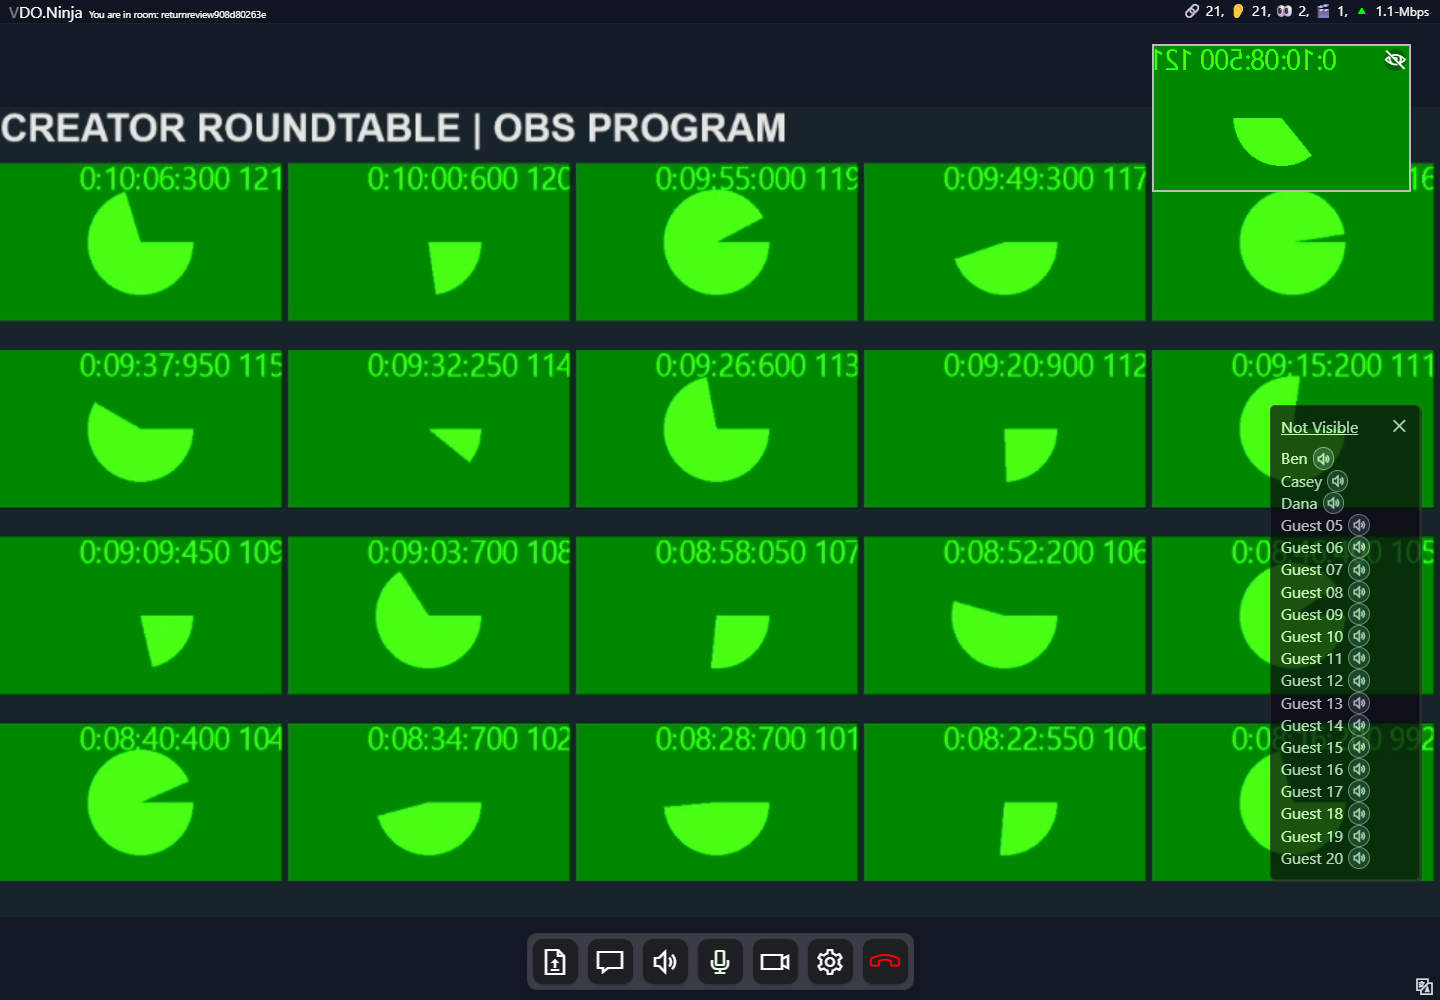
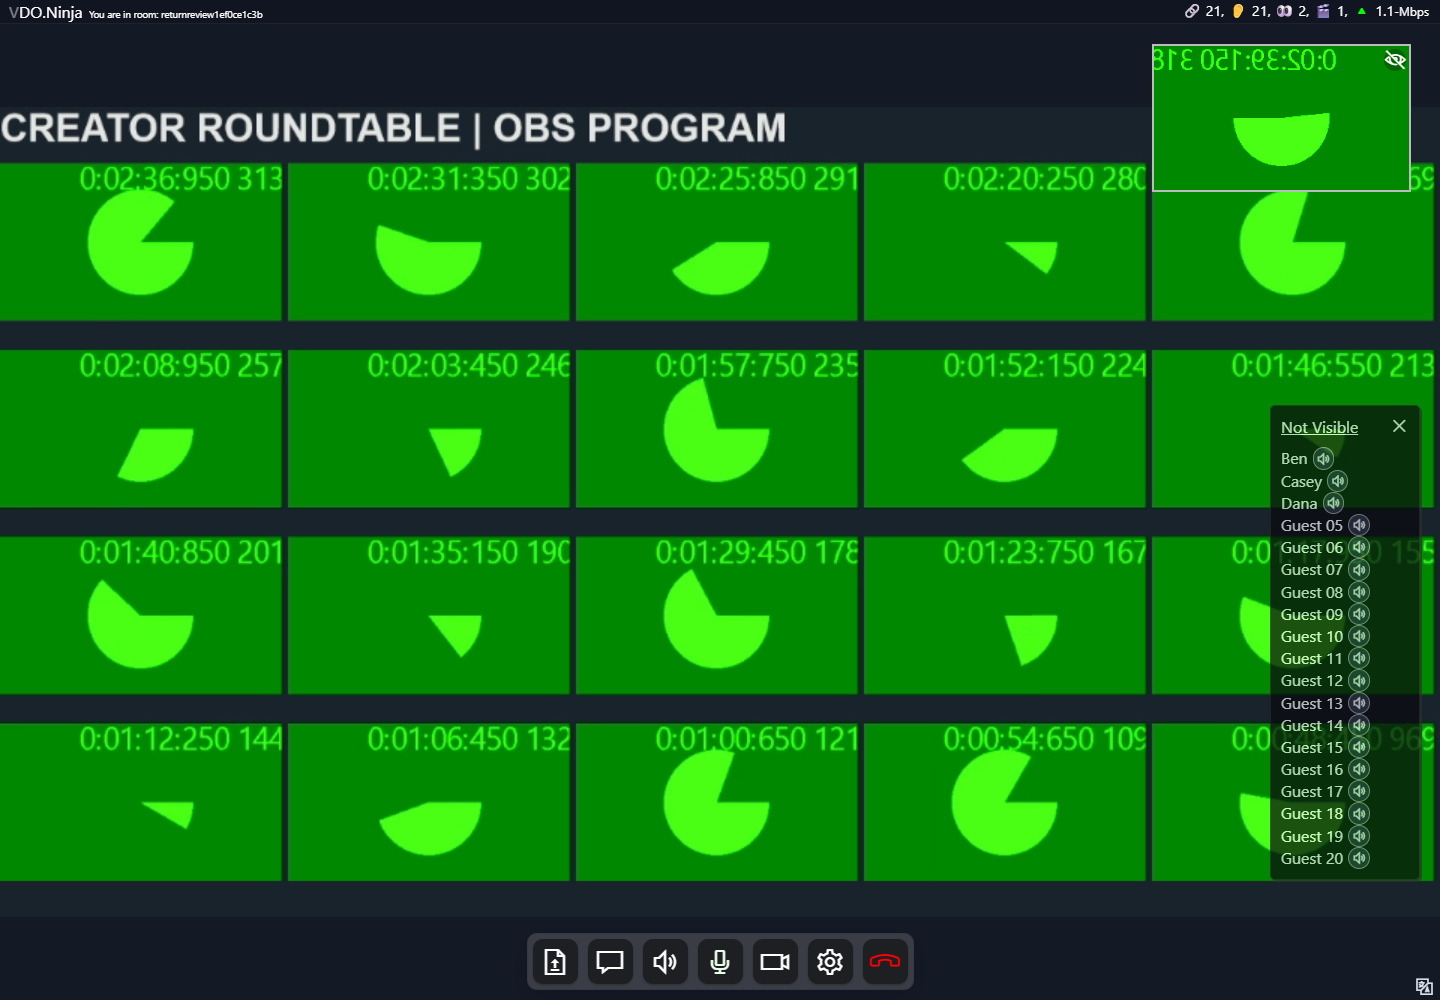
Publish final room guides and packaged 20-guest validation

diff --git a/docs/guest-return.html b/docs/guest-return.html
@@ -2,7 +2,7 @@
 <html lang="en"><head><meta charset="utf-8"><meta name="viewport" content="width=device-width,initial-scale=1"><meta name="description" content="Give every VDO.Ninja room guest the OBS program while your public stream continues. A short visual setup guide."><title>OBS program for your room · VDO.Ninja</title><link rel="stylesheet" href="guest-return.css"></head>
 <body><header><nav class="wrap" aria-label="Guide navigation"><a href="index.html"><strong>VDO.Ninja · OBS</strong></a><div class="tabs"><a aria-current="page" href="guest-return.html">Host setup</a><a href="guest-return-join.html">Guest guide</a><a href="guest-return-rehearsal.html">Pre-show check</a></div></nav></header>
 <main class="wrap"><section class="hero"><div class="eyebrow">Group room · Host guide</div><h1>Send your OBS program<br>to the room.</h1><p class="intro">Guests see the show and hear clips, while talking to each other directly. Your public stream runs alongside it.</p></section>
-<p class="status">Preview guide · Requires the upcoming Guest Return room controls. Screenshots use disposable test rooms.</p>
+<p class="status">Requires <a href="https://github.com/steveseguin/ninja-obs-plugin/releases/tag/v1.1.78">plugin v1.1.78 or newer</a>. Screenshots use disposable test rooms.</p>
 <div class="flow" role="img" aria-label="OBS sends the program to Guest Return, which sends it to each room guest"><div><b>OBS program</b><span>Your scenes + clips</span></div><div class="arrow" aria-hidden="true">→</div><div><b>Guest Return</b><span>Separate output · track 2</span></div><div class="arrow" aria-hidden="true">→</div><div><b>Room guests</b><span>Same show · live conversation</span></div></div>
 <section class="step" id="room"><h2><span class="number">1</span>Open your room</h2><p>Create or open your VDO.Ninja director room. Keep your usual YouTube or other streaming destination in OBS.</p><p>Add each guest’s individual video to OBS. For a Browser Source, enable <strong>Control audio via OBS</strong> so you can route its sound.</p><details><summary>Where do I get the guest video?</summary><p>Use the individual guest’s OBS/view link from the director room. Make one source per guest. A return viewer link is for watching the finished program, so do not use it as a guest camera source.</p><figure><img src="assets/guest-return/04-guest-source.png" alt="OBS Browser Source with a guest view link and Control audio via OBS enabled" loading="lazy"><figcaption>Browser Source settings from the test room.</figcaption></figure></details></section>
 <section class="step" id="audio"><h2><span class="number">2</span>Give the return its own audio track</h2><p>Open OBS <strong>Advanced Audio Properties</strong>. Use track <strong>1</strong> for the public stream and track <strong>2</strong> for Guest Return.</p>
@@ -10,7 +10,7 @@
 <div class="callout"><strong>Exclude ALL guest mics from track 2.</strong><p>Guests already hear each other through the room. Sending them again in the return creates delayed voices or echo. If your host mic is also active in the director’s browser, leave that mic off track 2 too.</p></div>
 <figure><a href="assets/guest-return/05-audio-routing.png"><img src="assets/guest-return/05-audio-routing.png" alt="Alice, Ben and Casey enabled on track 1 and disabled on track 2; host and clip enabled on both" loading="lazy"></a><figcaption>Three guest mics excluded from the shared return. Click any screenshot to inspect it.</figcaption></figure>
 <p class="note">In Settings → Output, select audio track 1 for your normal stream. Avoid also capturing guest sound through Desktop Audio or audio monitoring.</p></section>
-<section class="step" id="start"><div class="split wide"><div><h2><span class="number">3</span>Start Guest Return</h2><p>Open <strong>Tools → VDO.Ninja Studio → Guest Return</strong>.</p><ul><li>Enter the director room’s <strong>Room ID</strong> and matching <strong>Password</strong>.</li><li>Keep the generated <strong>Stream ID</strong>, or choose a unique return ID.</li><li>Set <strong>Return audio track: 2</strong>.</li><li>Set <strong>Max Viewers</strong> to cover guests plus director previews and monitors.</li><li>Click <strong>Start return</strong>.</li></ul><p class="note">For 20 guests, start at 1500 kbps, Up to 540p, and 15 fps (30 / 2). Allow 22 viewer slots for guests and previews. The return uses a separate H.264 encoder. Leave advanced connection settings at their defaults unless your network needs them.</p><details><summary>Reduce the return’s load</summary><p>Choose <strong>Up to 720p</strong> or <strong>Up to 540p</strong> under Return size. Return frame rate divides the OBS rate: 60 / 2 gives 30 fps; 30 / 2 gives 15 fps. These controls affect only the return.</p><p>Lower <strong>Video bitrate</strong> separately to reduce upload. Smaller dimensions alone do not lower a fixed bitrate.</p></details></div><figure class="small"><a href="assets/guest-return/07-return-settings.png"><img src="assets/guest-return/07-return-settings.png" alt="Guest Return settings showing room, return ID, audio track 2, bitrate and room invite button" loading="lazy"></a><figcaption>Example settings. Use your own room, password and return ID.</figcaption></figure></div></section>
+<section class="step" id="start"><div class="split wide"><div><h2><span class="number">3</span>Start Guest Return</h2><p>Open <strong>Tools → VDO.Ninja Studio → Guest Return</strong>.</p><ul><li>Enter the director room’s <strong>Room ID</strong> and matching <strong>Password</strong>.</li><li>Keep the generated <strong>Stream ID</strong>, or choose a unique return ID.</li><li>Set <strong>Return audio track: 2</strong>.</li><li>Set <strong>Max Viewers</strong> to cover guests plus director previews and monitors.</li><li>Click <strong>Start return</strong>.</li></ul><p class="note">For 20 guests, start at 1500 kbps, Up to 540p, and 15 fps (OBS 30 / 2 or 60 / 4). Allow 22 viewer slots for guests and previews. The return uses a separate H.264 encoder. Leave advanced connection settings at their defaults unless your network needs them.</p><details><summary>Reduce the return’s load</summary><p>Choose <strong>Up to 720p</strong> or <strong>Up to 540p</strong> under Return size. Return frame rate divides the OBS rate: 60 / 2 gives 30 fps; 30 / 2 gives 15 fps. These controls affect only the return.</p><p>Lower <strong>Video bitrate</strong> separately to reduce upload. Smaller dimensions alone do not lower a fixed bitrate.</p></details></div><figure class="small"><a href="assets/guest-return/07-return-settings.png"><img src="assets/guest-return/07-return-settings.png" alt="Guest Return settings showing room, return ID, audio track 2, bitrate and room invite button" loading="lazy"></a><figcaption>Example settings. Use your own room, password and return ID.</figcaption></figure></div></section>
 <section class="step" id="invite"><h2><span class="number">4</span>Send the room guest invitation</h2><p>Click <strong>Copy room guest invite</strong> and send that link to every guest. Ask existing guests to rejoin with it.</p><div class="callout"><p><strong>Use the room invite for participants.</strong> It joins the conversation and selects the OBS return. <strong>Copy return viewer link</strong> is for a watch-only monitor.</p></div><p>Guests choose <strong>Join Room with Camera</strong>, allow their camera and mic, then click <strong>START</strong>.</p><div class="actions"><a class="button" href="guest-return-join.html">Open the guest guide →</a></div><details><summary>What is in the link?</summary><p>The plugin adds <code>broadcast=YOUR_RETURN_ID</code> to the room invitation. Guests receive that program video and still hear the other guests directly. The room password is included; share the link privately.</p></details></section>
 <section class="step" id="check"><h2><span class="number">5</span>Check the room, then go live</h2><p>Have guests confirm that the program moves, clips are audible, and nobody hears their own delayed voice. Check the connected viewer count. Start your normal OBS stream when ready.</p><figure><a href="assets/guest-return/14-alice-program.png"><img src="assets/guest-return/14-alice-program.png" alt="A guest sees the composed OBS program with 20 test cameras and a small self-preview" loading="lazy"></a><figcaption>Verified 20-guest room. Green patterns are synthetic test cameras.</figcaption></figure><p class="note">Stopping Guest Return leaves the public stream running. Start the return again after reopening OBS or changing profiles.</p><div class="actions"><a class="button" href="guest-return-rehearsal.html">Run the pre-show check →</a></div></section>
 <section class="step calculator"><h2>Allow upload for every return viewer</h2><p class="mini">Each guest and director preview receives a separate copy. This is independent of your public audience size.</p><div class="fields"><label>Return viewers <input id="viewers" type="number" min="1" max="50" value="22"></label><label>Video kbps <input id="bitrate" type="number" min="100" max="50000" step="100" value="1500"></label></div><p class="estimate" id="estimate" aria-live="polite"></p><p class="note">Planning estimate includes 200 kbps audio per viewer and 25% headroom. Add your public stream and other uploads. This is not a measured connection guarantee.</p></section>

diff --git a/scripts/guest-return-room-ui.py b/scripts/guest-return-room-ui.py
@@ -25,10 +25,11 @@ def find(identifier):
 def native_click(control):
     import win32gui
     window = control
-    while window.element_info.control_type != 'Window' or not window.handle:
+    while not window.handle:
         window = window.parent()
     point = control.rectangle().mid_point()
     x, y = win32gui.ScreenToClient(window.handle, (point.x, point.y))
+    win32gui.SendMessage(window.handle, 0x0200, 0, (y << 16) | x)
     win32gui.SendMessage(window.handle, 0x0201, 1, (y << 16) | x)
     win32gui.SendMessage(window.handle, 0x0202, 0, (y << 16) | x)
 
@@ -42,7 +43,12 @@ if action == 'dump':
 elif action == 'open':
     main.set_focus()
     main.maximize()
-    main.menu_select('Tools->VDO.Ninja Studio')
+    try:
+        visible = find('VDONinjaStudioDock').is_visible()
+    except RuntimeError:
+        visible = False
+    if not visible:
+        main.menu_select('Tools->VDO.Ninja Studio')
 elif action == 'tab':
     for window in app.windows():
         matches = [c for c in window.descendants(control_type='TabItem') if c.window_text() == 'Guest Return']
@@ -82,14 +88,16 @@ elif action == 'combo':
     import win32gui
     dock = find('VDONinjaStudioDock')
     win32gui.MoveWindow(dock.handle, 100, 40, 600, 1100, True)
+    win32gui.ShowWindow(dock.handle, 5)
+    time.sleep(.3)
     control = find(sys.argv[3])
     assert control.is_enabled()
-    control.click_input()
+    control.expand()
     time.sleep(.3)
     choices = [c for w in app.windows() for c in w.descendants(control_type='ListItem')
                if c.window_text() == sys.argv[4] and c.is_visible()]
     assert choices, 'Combo option not visible'
-    choices[0].click_input()
+    native_click(choices[0])
     time.sleep(.2)
     assert find(sys.argv[3]).selected_text() == sys.argv[4], 'Combo selection did not apply'
 elif action == 'resize':

diff --git a/scripts/guest-return-room-setup.py b/scripts/guest-return-room-setup.py
@@ -30,7 +30,8 @@ def copy_file(source, destination):
     return destination
 
 shutil.copytree(template, review, copy_function=copy_file)
-plugin = root / 'build-plugin-release-validation/RelWithDebInfo/obs-vdoninja.dll'
+plugin = (Path(sys.argv[2]).resolve() if len(sys.argv) > 2 else
+          root / 'build-plugin-release-validation/RelWithDebInfo/obs-vdoninja.dll')
 target = review / 'obs-plugins/64bit/obs-vdoninja.dll'
 assert target.resolve().is_relative_to(output) and target != plugin
 target.unlink()

diff --git a/docs/guest-return-room-validation.md b/docs/guest-return-room-validation.md
@@ -8,7 +8,8 @@ selected OBS return track, and retain direct guest-to-guest audio. No VDO.Ninja
 code changes are required for this workflow.
 
 Implemented controls: room guest invitation, viewer capacity (1–50, default 10),
-connected/maximum viewer status, group audio guidance, and independent signaling,
+connected/maximum viewer status, independent return size/FPS, group audio guidance,
+and independent signaling,
 salt, custom STUN/TURN, and Force TURN settings. Links preserve signaling/salt and
 omit relay credentials. Settings remain locked during a session and saved per
 OBS profile. Force TURN without a TURN entry is rejected before allocation.
@@ -140,8 +141,10 @@ The bundled backend still does not support TCP/TLS-only TURN networks.
 Resolution, FPS divisor and capacity survived OBS restart; return remained
 stopped until manually started. Two Qt automation issues were caught by media
 assertions and screenshots: changing combo values via keyboard/native messages
-had no effect, and an off-screen dock defeated physical clicks. The harness now
-moves its owned dock on screen, clicks the option and verifies the selected text.
+had no effect, and an off-screen dock defeated physical clicks. The harness moves its owned dock on screen and verifies the selected text.
+A later clean-build smoke also caught a Qt popup belonging to its own native
+window: the driver now opens the popup through accessibility and sends the mouse
+click to that popup handle, rather than to the dock behind it.
 The failed 720p assertions are retained locally, not counted as reduced-size passes.
 
 Six-channel native reception passed distinct-tone 5.1 recording and reconnect.
@@ -160,7 +163,7 @@ native permission dialogs. Crops never reconstruct UI.
 
 The three HTML guides passed 1280px desktop and 390px mobile layout, local links,
 image loading, calculator and checklist checks. Full-page and section captures,
-plus printable PDFs, are in `artifacts/guest-return-guide-final-20261031/`.
+plus printable PDFs, are in `artifacts/guest-return-guides-published-1.1.78/`.
 
 ## Delivery checklist and remaining work
 
@@ -171,7 +174,8 @@ plus printable PDFs, are in `artifacts/guest-return-guide-final-20261031/`.
 - [x] Independent return size/FPS, final UI captures, and restart persistence.
 - [x] Six-channel 5.1 reception and stereo downmix with reconnect.
 - [x] Host, guest and pre-show visual guides; desktop/mobile review.
-- [ ] Release packaging/CI and final packaged-binary smoke test.
+- [x] Release packaging/CI, ZIP installation, checksum verification and final
+  packaged-binary 20-guest room test.
 - [ ] Actual rehearsal with Matt's participants and their Internet connections.
   Target up to 20 people. This needs participant/device access; automated local
   guests do not establish their network quality or acoustic echo behavior.
@@ -179,7 +183,9 @@ plus printable PDFs, are in `artifacts/guest-return-guide-final-20261031/`.
   are useful gates but do not replace a room rehearsal on those hosts.
 - [ ] TCP/TLS-only TURN support: requires a suitable ICE backend and separate
   restricted-network tests. Current UDP relay checks do not establish this.
-- [ ] Hosted WHEP publication: production broker returned HTTP 504. Preserve the
+- [ ] Hosted WHEP publication: production broker returned HTTP 504. A disposable WebSocket/HTTP protocol
+  probe confirmed its POST contains no `sessionId`, which the pending native
+  implementation requires. Preserve the
   pending implementation, fix/deploy the broker protocol and rerun hosted E2E
   before shipping its controls or guide. Local broker success is insufficient.
 - [ ] Native Meshcast/server distribution: separate feature requiring native
@@ -191,3 +197,43 @@ including the guide's audio/headroom allowance, plus public streaming and other
 uploads. Lower upload capacity needs a lower return bitrate or server distribution.
 Automatic per-guest mix-minus is separate work; the documented group return
 excludes all guest mics and keeps their direct room conversation.
+
+## Release verification
+
+v1.1.78 was cut with `scripts/release.ps1 -Action cut -Bump patch -Push` from
+a clean main checkout; pending WHEP work remains uncommitted in the original
+checkout. The clean release passed 807 unit and 88 native OBS/FFmpeg tests.
+Windows (both OBS compatibility bands), macOS arm64 and Linux CI packages passed.
+The Arch source package also passed its current OBS 33 build, linked tests,
+install/reinstall, module initialization and removal after updating its SDK
+dependency band and SIMD header dependency. Official archives retain their
+OBS 32.2.0 / Windows legacy 32.0.4 SDK baselines.
+
+A clean locally built v1.1.78 passed two-guest return/media/independent-output
+smoke checks. A separate native receiving test passed decoded moving pixels and
+audio with the native selected route reporting UDP relay. Chrome learned that
+remote candidate as `prflx`; do not describe it as browser-side `relay`-type proof.
+The earlier timeout and remote-type assertions were harness errors (publisher
+peer map versus receiver peer map, and the learned candidate classification);
+the raw runs are retained in ignored artifacts. Browser-side relay-type proof
+for Guest Return publishing is from the separate remote-device run above.
+
+The three visual guides are published at
+[Host setup](https://steveseguin.github.io/ninja-obs-plugin/guest-return.html),
+[Guest joining](https://steveseguin.github.io/ninja-obs-plugin/guest-return-join.html),
+and [Pre-show check](https://steveseguin.github.io/ninja-obs-plugin/guest-return-rehearsal.html).
+All three returned HTTP 200 and loaded their screenshot assets in a real browser.
+
+The published Windows ZIP was installed with its own `install.ps1` into isolated
+portable OBS. Its loaded DLL hash was
[1 lines of base64/hex data omitted]
+Both the downloaded ZIP and setup EXE matched published SHA-256 checksums.
+The packaged DLL passed the full **20-guest** run again: moving 960x540/15 fps
+return video, advancing audio, twentieth guest rejoin, unreachable-relay negative
+check, and public output surviving return stop. Final packaged controls and
+20-guest program captures now appear in the host guide. One clipped settings
+capture was rejected and retaken with the complete window visible.
+
+Release: https://github.com/steveseguin/ninja-obs-plugin/releases/tag/v1.1.78
+
+All owned test OBS and browser/controller sessions were closed after validation.

diff --git a/media-assets/guest-return-room/README.md b/media-assets/guest-return-room/README.md
@@ -43,6 +43,6 @@ Each step has an original application/viewport capture and a crop. No UI was gen
 
 ## Final controls, 20 guests and remote browsers
 
-The [extended manifest](extended/manifest.json) adds 19 full/cropped pairs with visual review notes: final return controls, 21/22 live capacity, 20-guest program, independent stop, persisted settings, and invitation/device/program flow on Firefox, iPhone Safari and Android Chrome. [Measured results](extended/validation-results.json) distinguish the local 20-guest load test from the separate remote relay checks. Permission-transition images do not show native permission dialogs.
+The [extended manifest](extended/manifest.json) adds 21 full/cropped pairs with visual review notes: final return controls, 21/22 live capacity, 20-guest program, independent stop, persisted settings, and invitation/device/program flow on Firefox, iPhone Safari and Android Chrome. [Measured results](extended/validation-results.json) distinguish the local 20-guest load test from the separate remote relay checks. Permission-transition images do not show native permission dialogs.
 
-The finished guides are [Host setup](../../docs/guest-return.html), [Guest joining](../../docs/guest-return-join.html), and [Pre-show check](../../docs/guest-return-rehearsal.html). Their desktop/mobile full-page and section captures and printable PDFs are in the local `artifacts/guest-return-guide-final-20261031/` directory.
+The finished guides are [Host setup](../../docs/guest-return.html), [Guest joining](../../docs/guest-return-join.html), and [Pre-show check](../../docs/guest-return-rehearsal.html). Their desktop/mobile full-page and section captures and printable PDFs are in the local `artifacts/guest-return-guides-published-1.1.78/` directory.
